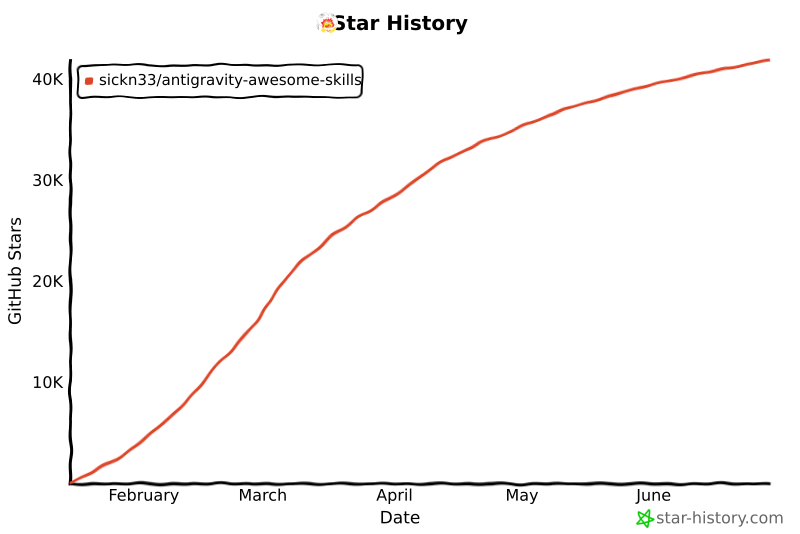
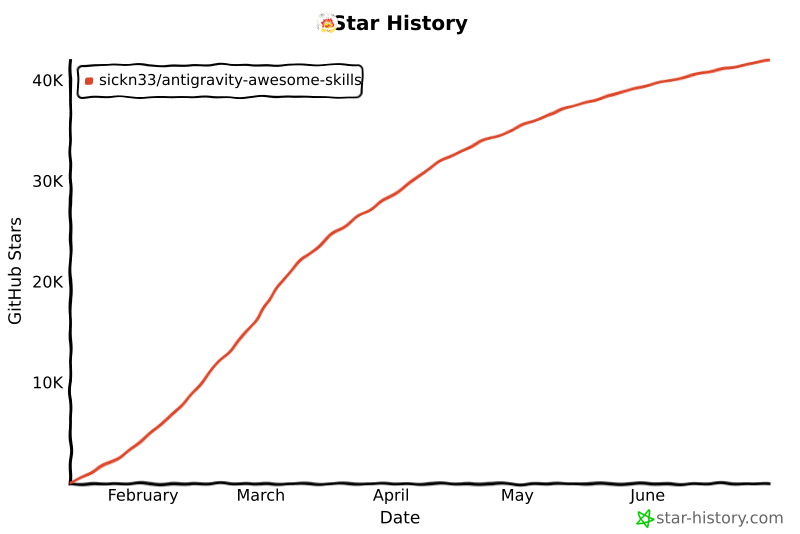
chore: update star history chart

diff --git a/README.md b/README.md
@@ -486,14 +486,14 @@ We officially thank the following contributors for their help in making this rep
 ## Star History
 
 <a href="https://www.star-history.com/#sickn33/antigravity-awesome-skills&type=date&legend=top-left">
- <img alt="Star History Chart" src="https://api.star-history.com/svg?repos=sickn33/antigravity-awesome-skills&type=date&legend=top-left&cache_bust=202606291018" />
+ <img alt="Star History Chart" src="https://api.star-history.com/svg?repos=sickn33/antigravity-awesome-skills&type=date&legend=top-left&cache_bust=202606300853" />
 </a>
 
 <a href="https://www.star-history.com/sickn33/antigravity-awesome-skills">
  <picture>
-   <source media="(prefers-color-scheme: dark)" srcset="https://api.star-history.com/chart?repos=sickn33/antigravity-awesome-skills&style=landscape1&theme=dark&cache_bust=202606291018" />
-   <source media="(prefers-color-scheme: light)" srcset="https://api.star-history.com/chart?repos=sickn33/antigravity-awesome-skills&style=landscape1&cache_bust=202606291018" />
-   <img alt="Star History Chart" src="https://api.star-history.com/chart?repos=sickn33/antigravity-awesome-skills&style=landscape1&cache_bust=202606291018" />
+   <source media="(prefers-color-scheme: dark)" srcset="https://api.star-history.com/chart?repos=sickn33/antigravity-awesome-skills&style=landscape1&theme=dark&cache_bust=202606300853" />
+   <source media="(prefers-color-scheme: light)" srcset="https://api.star-history.com/chart?repos=sickn33/antigravity-awesome-skills&style=landscape1&cache_bust=202606300853" />
+   <img alt="Star History Chart" src="https://api.star-history.com/chart?repos=sickn33/antigravity-awesome-skills&style=landscape1&cache_bust=202606300853" />
  </picture>
 </a>
 
